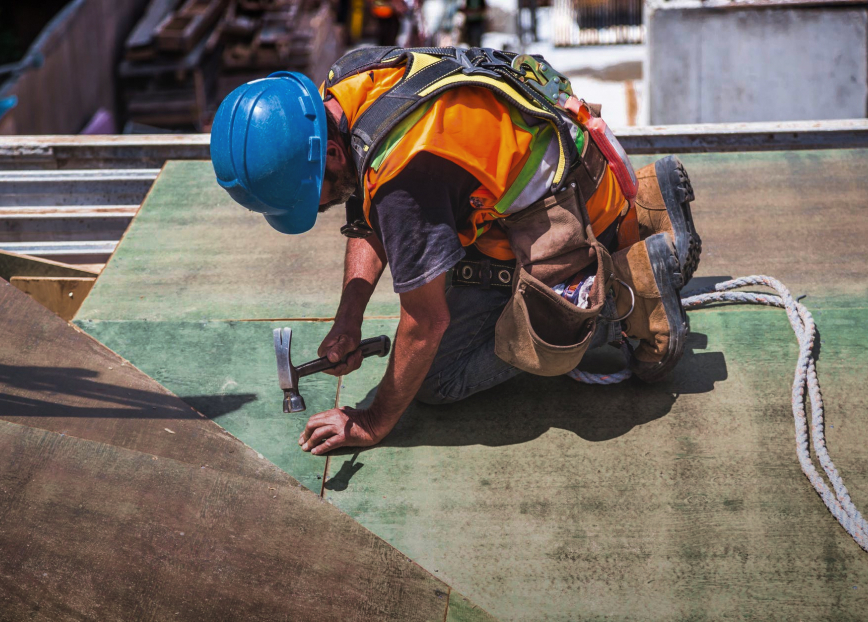
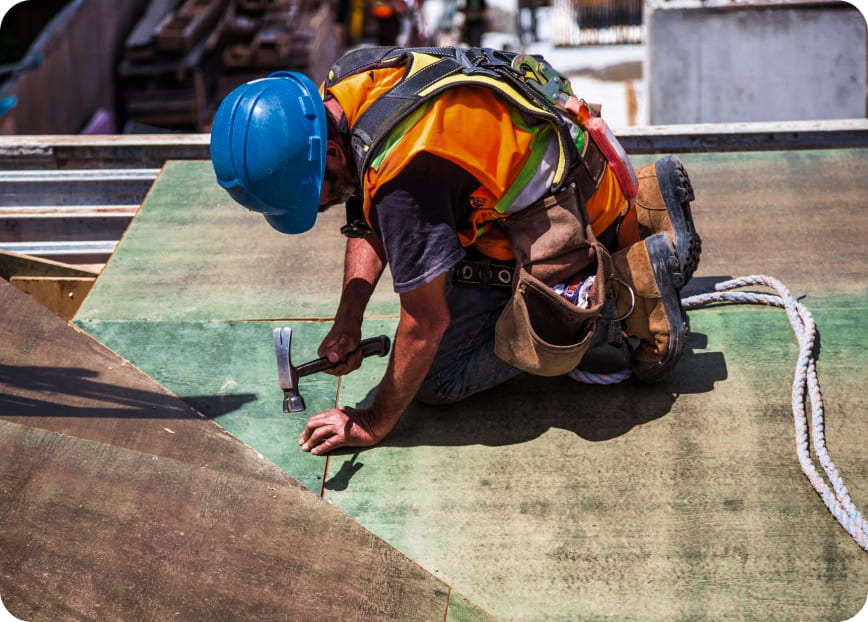
Recompressed the images

diff --git a/Евклид/index.html b/Евклид/index.html
@@ -55,9 +55,9 @@
                 <!-- Additional required wrapper -->
                 <div class="swiper-wrapper">
                   <!-- Slides -->
-                  <div class="swiper-slide"><img src="/img/calculation_back.png" alt="calculation_back"></div>
-                  <div class="swiper-slide"><img src="/img/calculation_back_2.png" alt="calculation_back_2"></div>
-                  <div class="swiper-slide"><img src="/img/calculation_back_3.png" alt="calculation_back_3"></div>
+                  <div class="swiper-slide"><img src="/img/calculation_back.jpg" alt="calculation_back"></div>
+                  <div class="swiper-slide"><img src="/img/calculation_back_2.jpg" alt="calculation_back_2"></div>
+                  <div class="swiper-slide"><img src="/img/calculation_back_3.jpg" alt="calculation_back_3"></div>
                 </div>
                 <div class="swiper-pagination"></div>
             </div>
@@ -65,9 +65,9 @@
                 <!-- Additional required wrapper -->
                 <div class="swiper-wrapper">
                   <!-- Slides -->
-                  <div class="swiper-slide"><img src="/img/calculation_back_1024.png" alt="calculation_back_1024"></div>
-                  <div class="swiper-slide"><img src="/img/calculation_back_1024_2.png" alt="calculation_back_1024_2"></div>
-                  <div class="swiper-slide"><img src="/img/calculation_back_1024_3.png" alt="calculation_back_1024_3"></div>
+                  <div class="swiper-slide"><img src="/img/calculation_back_1024.jpg" alt="calculation_back_1024"></div>
+                  <div class="swiper-slide"><img src="/img/calculation_back_1024_2.jpg" alt="calculation_back_1024_2"></div>
+                  <div class="swiper-slide"><img src="/img/calculation_back_1024_3.jpg" alt="calculation_back_1024_3"></div>
                 </div>
                 <div class="swiper-pagination"></div>
             </div>
@@ -75,9 +75,9 @@
                 <!-- Additional required wrapper -->
                 <div class="swiper-wrapper">
                   <!-- Slides -->
-                  <div class="swiper-slide"><img src="/img/calculation_back_768.png" alt="calculation_back_768"></div>
-                  <div class="swiper-slide"><img src="/img/calculation_back_768_2.png" alt="calculation_back_768_2"></div>
-                  <div class="swiper-slide"><img src="/img/calculation_back_768_3.png" alt="calculation_back_768_3"></div>
+                  <div class="swiper-slide"><img src="/img/calculation_back_768.jpg" alt="calculation_back_768"></div>
+                  <div class="swiper-slide"><img src="/img/calculation_back_768_2.jpg" alt="calculation_back_768_2"></div>
+                  <div class="swiper-slide"><img src="/img/calculation_back_768_3.jpg" alt="calculation_back_768_3"></div>
                 </div>
                 <div class="swiper-pagination"></div>
             </div>
@@ -85,9 +85,9 @@
                 <!-- Additional required wrapper -->
                 <div class="swiper-wrapper">
                   <!-- Slides -->
-                  <div class="swiper-slide"><img src="/img/calculation_back_320.png" alt="calculation_back_320"></div>
-                  <div class="swiper-slide"><img src="/img/calculation_back_320_2.png" alt="calculation_back_320_2"></div>
-                  <div class="swiper-slide"><img src="/img/calculation_back_320_3.png" alt="calculation_back_320_3"></div>
+                  <div class="swiper-slide"><img src="/img/calculation_back_320.jpg" alt="calculation_back_320"></div>
+                  <div class="swiper-slide"><img src="/img/calculation_back_320_2.jpg" alt="calculation_back_320_2"></div>
+                  <div class="swiper-slide"><img src="/img/calculation_back_320_3.jpg" alt="calculation_back_320_3"></div>
                 </div>
                 <div class="swiper-pagination"></div>
             </div>
@@ -196,10 +196,10 @@
                             <a href="" class="buttons__order">Договор</a>
                         </div>
                     </div>
-                    <div class="block__right-block"><img src="/img/how-we-work_bg.png" alt=""></div>
-                    <div class="block__right-block_1024"><img src="/img/how-we-work_bg_1024.png" alt=""></div>
-                    <div class="block__right-block_768"><img src="/img/how-we-work_bg_768.png" alt=""></div>
-                    <div class="block__right-block_320"><img src="/img/how-we-work_bg_320.png" alt=""></div>
+                    <div class="block__right-block"><img src="/img/how-we-work_bg.jpg" alt=""></div>
+                    <div class="block__right-block_1024"><img src="/img/how-we-work_bg_1024.jpg" alt=""></div>
+                    <div class="block__right-block_768"><img src="/img/how-we-work_bg_768.jpg" alt=""></div>
+                    <div class="block__right-block_320"><img src="/img/how-we-work_bg_320.jpg" alt=""></div>
                 </div>
                 <div class="block__target-block" data-target="tow">
                     <div class="block__left-block">
@@ -217,10 +217,10 @@
                             <a href="" class="buttons__order">Договор</a>
                         </div>
                     </div>
-                    <div class="block__right-block"><img src="/img/how-we-work_bg_2.png" alt=""></div>
-                    <div class="block__right-block_1024"><img src="/img/how-we-work_bg_1024_2.png" alt=""></div>
-                    <div class="block__right-block_768"><img src="/img/how-we-work_bg_768_2.png" alt=""></div>
-                    <div class="block__right-block_320"><img src="/img/how-we-work_bg_320_2.png" alt=""></div>
+                    <div class="block__right-block"><img src="/img/how-we-work_bg_2.jpg" alt=""></div>
+                    <div class="block__right-block_1024"><img src="/img/how-we-work_bg_1024_2.jpg" alt=""></div>
+                    <div class="block__right-block_768"><img src="/img/how-we-work_bg_768_2.jpg" alt=""></div>
+                    <div class="block__right-block_320"><img src="/img/how-we-work_bg_320_2.jpg" alt=""></div>
                 </div>
                 <div class="block__target-block" data-target="three">
                     <div class="block__left-block">
@@ -240,10 +240,10 @@
                             <a href="" class="buttons__order">Договор</a>
                         </div>
                     </div>
-                    <div class="block__right-block"><img src="/img/how-we-work_bg_3.png" alt=""></div>
-                    <div class="block__right-block_1024"><img src="/img/how-we-work_bg_1024_3.png" alt=""></div>
-                    <div class="block__right-block_768"><img src="/img/how-we-work_bg_768_3.png" alt=""></div>
-                    <div class="block__right-block_320"><img src="/img/how-we-work_bg_320_3.png" alt=""></div>
+                    <div class="block__right-block"><img src="/img/how-we-work_bg_3.jpg" alt=""></div>
+                    <div class="block__right-block_1024"><img src="/img/how-we-work_bg_1024_3.jpg" alt=""></div>
+                    <div class="block__right-block_768"><img src="/img/how-we-work_bg_768_3.jpg" alt=""></div>
+                    <div class="block__right-block_320"><img src="/img/how-we-work_bg_320_3.jpg" alt=""></div>
                 </div>
                 <div class="block__target-block" data-target="four">
                     <div class="block__left-block">
@@ -260,10 +260,10 @@
                             <a href="" class="buttons__order">Договор</a>
                         </div>
                     </div>
-                    <div class="block__right-block"><img src="/img/how-we-work_bg_4.png" alt=""></div>
-                    <div class="block__right-block_1024"><img src="/img/how-we-work_bg_1024_4.png" alt=""></div>
-                    <div class="block__right-block_768"><img src="/img/how-we-work_bg_768_4.png" alt=""></div>
-                    <div class="block__right-block_320"><img src="/img/how-we-work_bg_320_4.png" alt=""></div>
+                    <div class="block__right-block"><img src="/img/how-we-work_bg_4.jpg" alt=""></div>
+                    <div class="block__right-block_1024"><img src="/img/how-we-work_bg_1024_4.jpg" alt=""></div>
+                    <div class="block__right-block_768"><img src="/img/how-we-work_bg_768_4.jpg" alt=""></div>
+                    <div class="block__right-block_320"><img src="/img/how-we-work_bg_320_4.jpg" alt=""></div>
                 </div>
     </section>
     <section class="questions">
@@ -328,31 +328,6 @@
               </div>
         </div>
     </section>
-    <!-- <section class="questions">
-        <div class="container questions__container">
-            <h2 class="questions__title titles">Часто задаваемые вопросы</h2>
-            <div class="questions__block">
-                <h3 class="block__question">Из чего формируется конечная стоимость проекта?</h3>
-                <a href="#" class="block__icons"></a>
-            </div>
-            <div class="questions__block">
-                <h3 class="block__question">У меня есть свой проект. Сможем ли мы его доработать / реализовать?</h3>
-                <a href="#" class="block__icons"></a>
-            </div>
-            <div class="questions__block">
-                <h3 class="block__question">Я выбираю между разными компаниями. В чём ваше отличие?</h3>
-                <a href="#" class="block__icons"></a>
-            </div>
-            <div class="questions__block">
-                <h3 class="block__question">Могу ли я делегировать вам работу / согласование с подрядчиком / организацией?</h3>
-                <a href="#" class="block__icons"></a>
-            </div>
-            <div class="questions__block">
-                <h3 class="block__question">Могу ли я вернуть деньги на каком-либо из этапов работ?</h3>
-                <a href="#" class="block__icons"></a>
-            </div>
-        </div>
-    </section> -->
     <footer class="footer">
         <div class="container">
             <div class="footer__block">

diff --git a/Евклид/css/style.css b/Евклид/css/style.css
@@ -829,7 +829,7 @@ li.elements__items {
         height: 640px;
         margin-right: 32px;
         border-radius: 32px;
-        background: url("../img/about_us_bac_img_1024.png") center center no-repeat;
+        background: url("../img/about_us_bac_img_1024.jpg") center center no-repeat;
     }
 
     .left-block__description-block {
@@ -1083,7 +1083,7 @@ li.elements__items {
         border-radius: 24px;
         width: 668px;
         height: 650px;
-        background: url("../img/about_us_bac_img_768.png") center center no-repeat;
+        background: url("../img/about_us_bac_img_768.jpg") center center no-repeat;
     }
 
     .left-block__description-block {
@@ -1412,7 +1412,7 @@ li.elements__items {
         border-radius: 24px;
         height: 200px;
         width: 290px;
-        background: url("../img/about_us_bac_img_320.png") center center no-repeat;
+        background: url("../img/about_us_bac_img_320.jpg") center center no-repeat;
     }
 
     .left-block__description-block {
